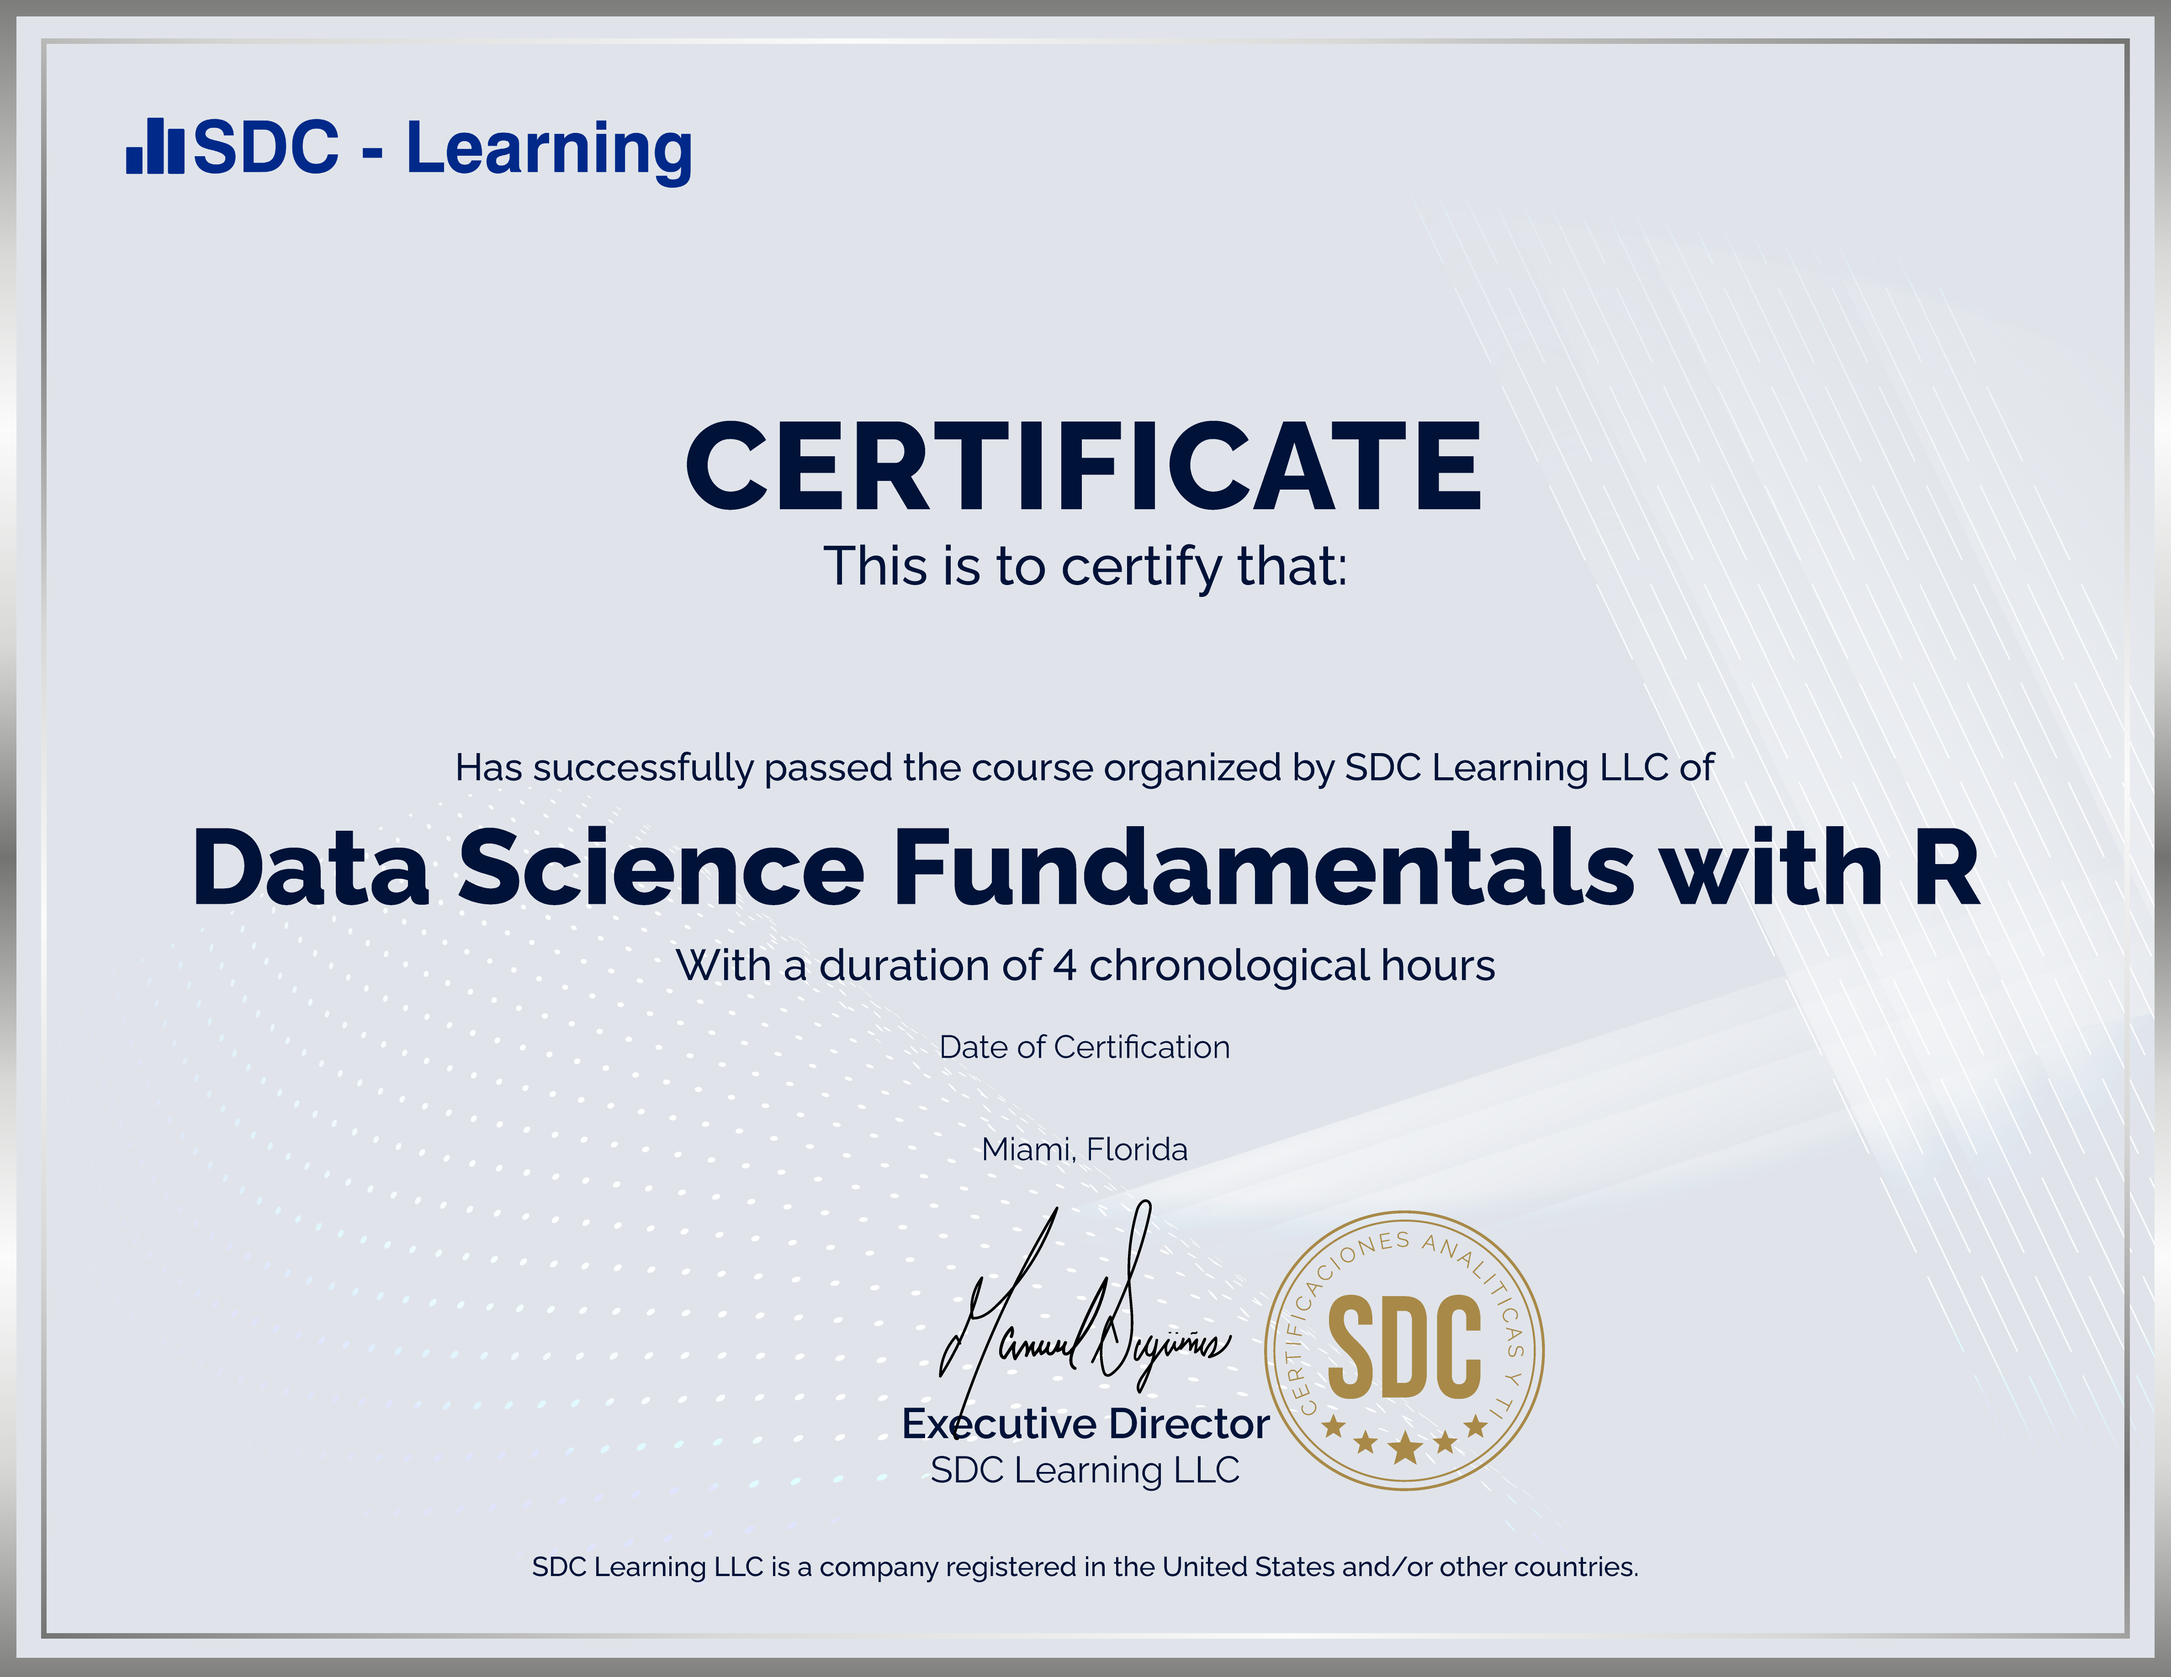
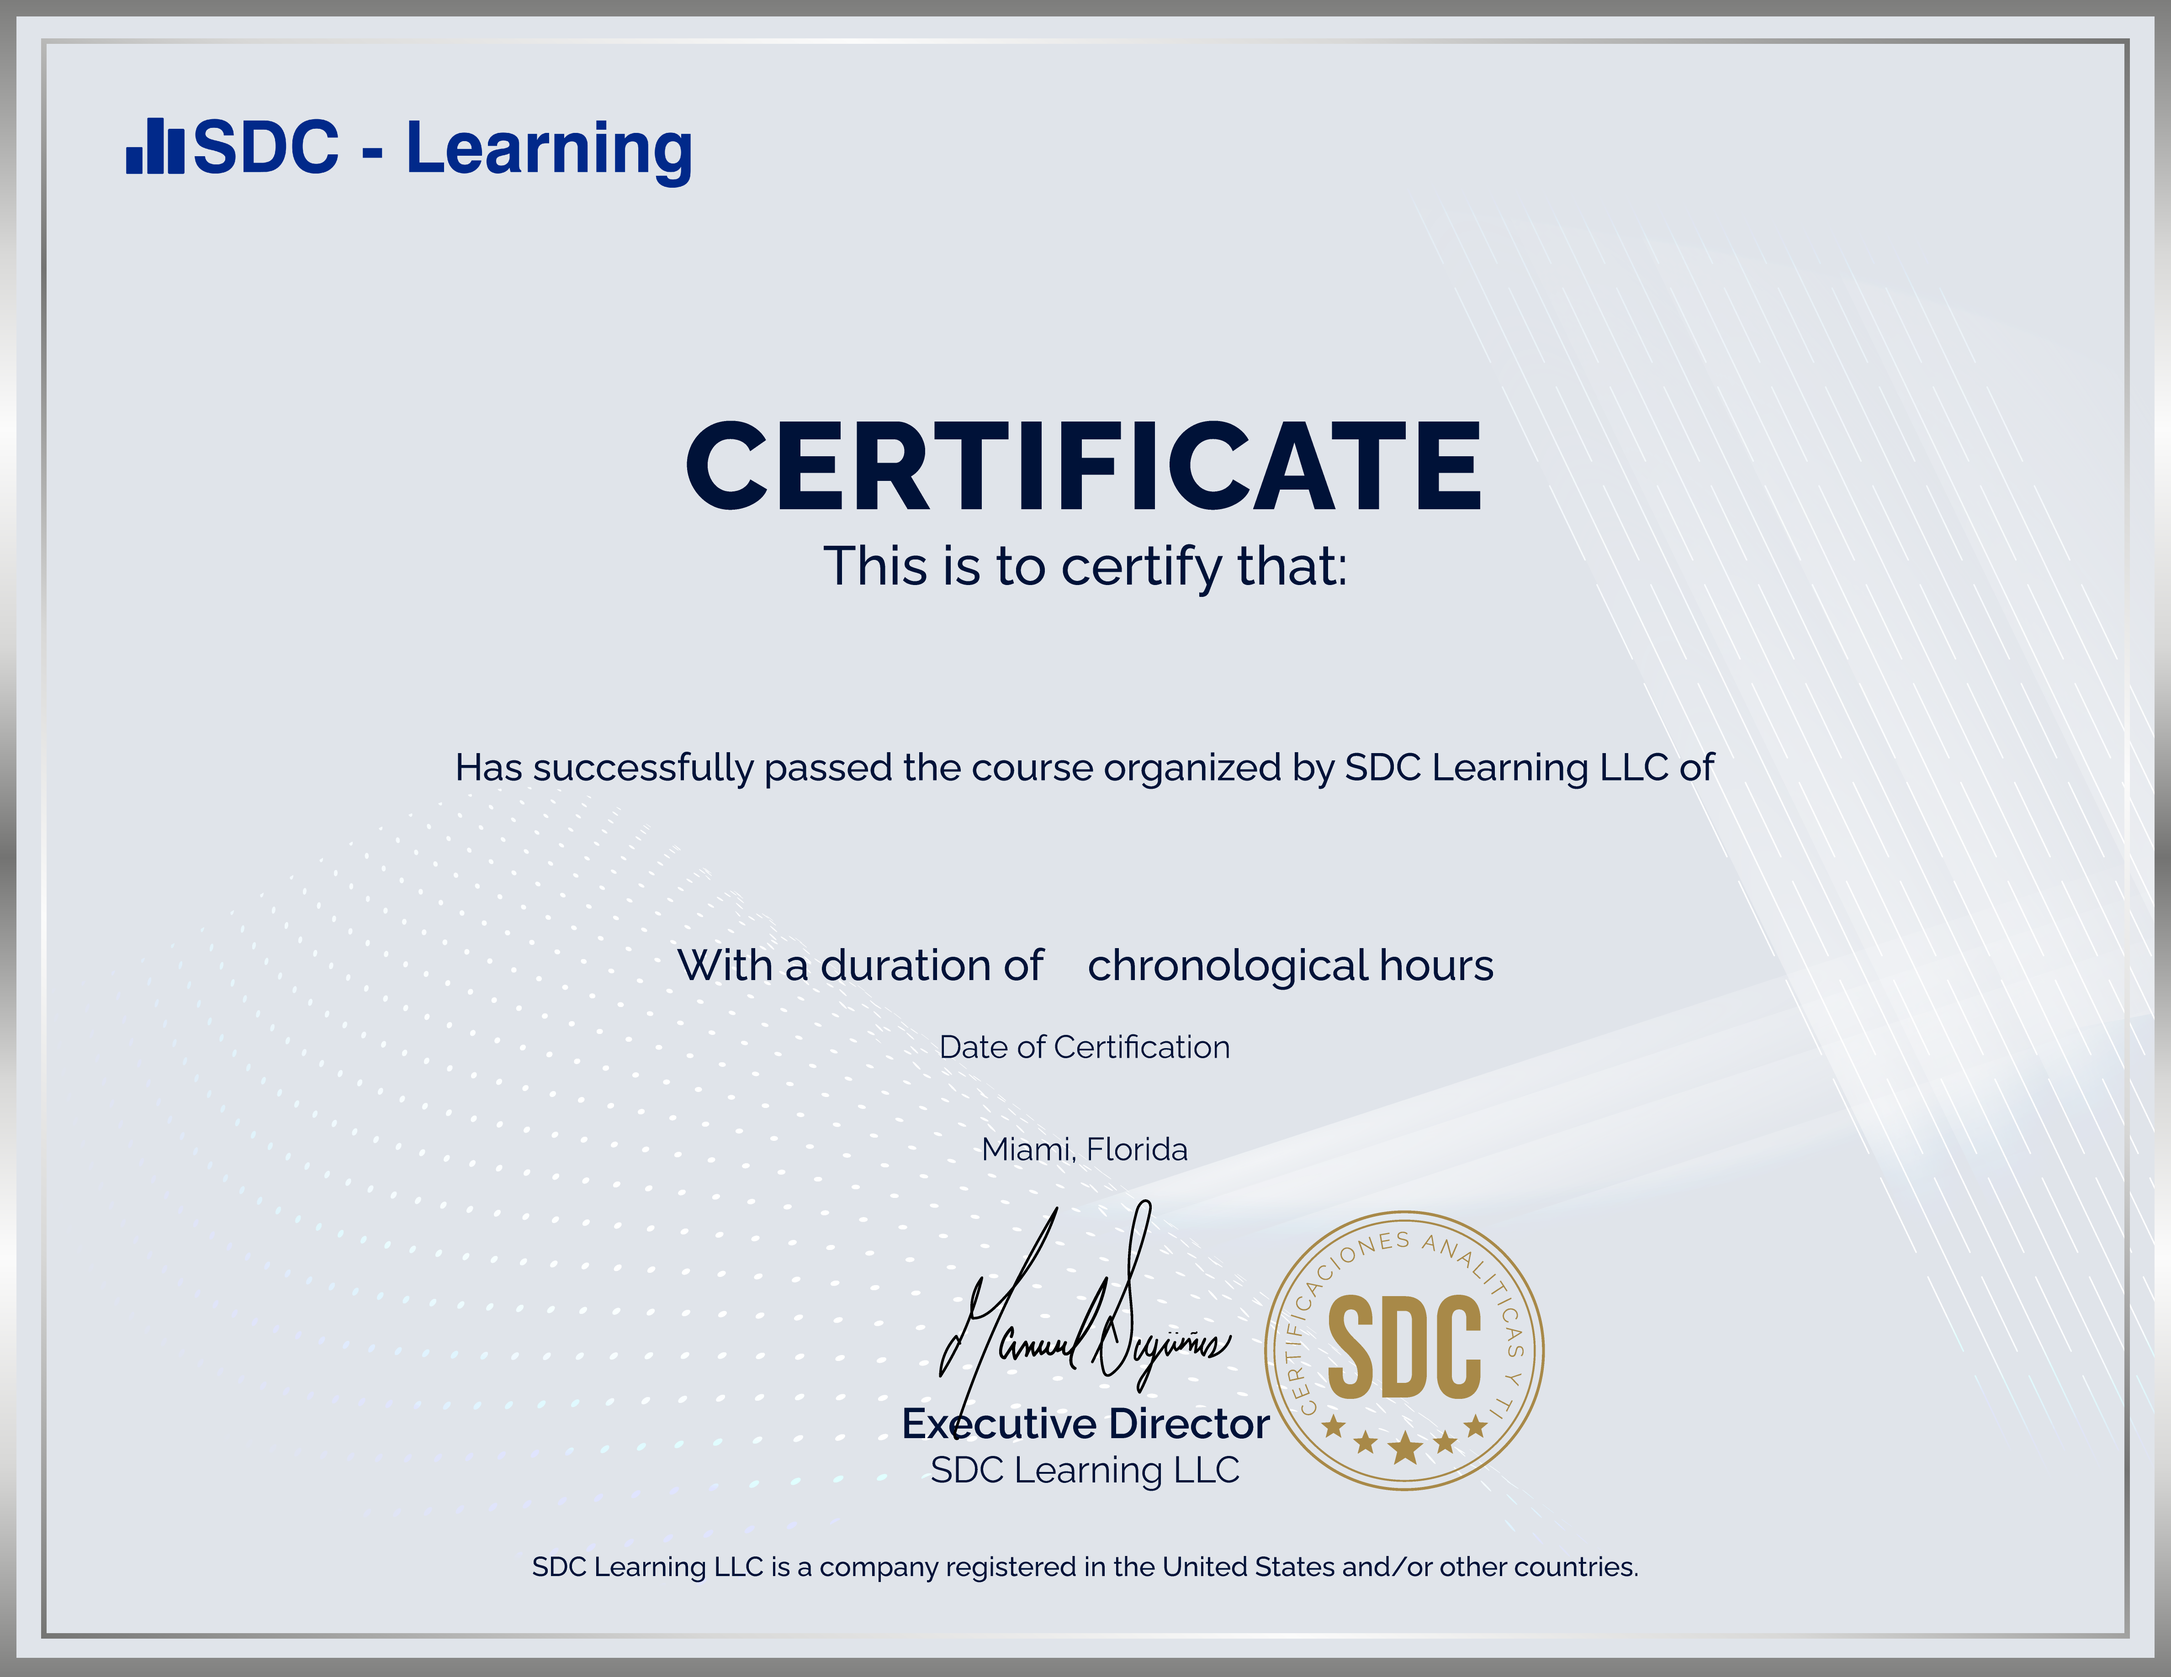
aagregando  nombre de certificado dinamico

Changed region(s): [[0.0623, 0.4967, 0.9343, 0.5899]]

diff --git a/public/certification.js b/public/certification.js
@@ -186,7 +186,7 @@ function generateCerticationEnd(image_src, student,canvas_id,qr_url,id,promedio)
 
 
 
-function generateCertication(image_src, student, canvas_id, qr_url, id, cert) {
+function generateCertication(image_src, student, canvas_id, qr_url, id, cert,text) {
 
 
 
@@ -215,11 +215,16 @@ function generateCertication(image_src, student, canvas_id, qr_url, id, cert) {
         let x = canvas1.width / 2  ;
 
             ctx.fillText(student, x, 300);
-
+ ctx.font = "bold 55px Open Sans";
+     ctx.fillStyle ="#001238";
+        ctx.fillText(text, x, 388);
+     
+     
         ctx.font = "bold 20px Open Sans";
        ctx.fillStyle ="#01233A";
             ctx.textAlign = "center";
 
+     
 
 var fechaActual = new Date();
 fechaActual.setMonth(fechaActual.getMonth());

diff --git a/resources/views/certification.blade.php b/resources/views/certification.blade.php
@@ -119,6 +119,7 @@
                 
                 ?>
 
+
                 <div class="form-layout-footer align-content-center">
                     <span>Credencial URL </span> <br>
                     <div class="row center">
@@ -128,30 +129,30 @@
                         <div class="col-lg-8">
                             <input type="text" id="texto" class="form-control" id=""
                                 value="{{ $url }}">
-                            <button class="btn btn-success btn-sm"onclick="copiarAlPortapapeles() ;"><i
+                                <button class="btn btn-success btn-sm"onclick="copiarAlPortapapeles() ;"><i
                                     class="fa fa-send mg-r-10"></i> Copiar</button>
-                        </div>
-                        <div class="col-lg-2">
-
-                        </div>
-                    </div>
-
-                    <p></p>
-                    <button class="btn btn-outline-info" id="btnpng"><i class="fa fa-send mg-r-10"></i> PNG</button>
-                    <button class="btn btn-outline-success" id="btnpdf"><i class="fa fa-send mg-r-10"></i>
-                        PDF</button>
-                    <button class="btn linkedin"
-                        onclick="linkedinCertificationGenerate('{{ $name_course }}','{{ $organizationId }}','{{ $issueYear }}','{{ $issueMonth }}','{{ $certId }}')">
-                    </button>
-
-
-                    @role('Coordinación')
-                        <form id="certification" method="post" action="" enctype="multipart/form-data"
+                                </div>
+                                <div class="col-lg-2">
+                                    
+                                </div>
+                            </div>
+                            
+                            <p></p>
+                            <button class="btn btn-outline-info" id="btnpng"><i class="fa fa-send mg-r-10"></i> PNG</button>
+                            <button class="btn btn-outline-success" id="btnpdf"><i class="fa fa-send mg-r-10"></i>
+                                PDF</button>
+                                <button class="btn linkedin"
+                                onclick="linkedinCertificationGenerate('{{ $name_course }}','{{ $organizationId }}','{{ $issueYear }}','{{ $issueMonth }}','{{ $certId }}')">
+                            </button>
+                            
+                            
+                            @role('Coordinación')
+                            <form id="certification" method="post" action="" enctype="multipart/form-data"
                             name="certification">
                             {{-- <button class="btn btn-danger"   onclick="certificationSavePhoto();" >Guardar </button>
-  <input type='hidden' id="img_source" name="photo" > --}}
+                            <input type='hidden' id="img_source" name="photo" > --}}
                         </form>
-                    @endrole
+                        @endrole
 
 
                     <script src="https://platform.linkedin.com/in.js" type="text/javascript">
@@ -183,10 +184,9 @@
         </div>
     </div>
     <p></p>
-
     <script>
         generateCertication("{{ $route_certification }}", "{{ $name }}", "canvas1", "{{ $route_qr }}",
-            "{{ $registry_detail->code_certification }}", '{{ $cert }}');
+            "{{ $registry_detail->code_certification }}", '{{ $cert }}','{{$registry_detail->registry->course->certification->description}}');
 
                 
 

diff --git a/resources/views/student/student_examtable.blade.php b/resources/views/student/student_examtable.blade.php
@@ -32,7 +32,7 @@
                                                             value="1"></span>
                                                 </div>
                                                 <input type="text" class="form-control"
-                                                    value="{{ $exams->alternative1 }}">
+                                                    value="{{ $exams->alternative1 }}" disabled>
                                             </div>
                                             <p></p>
                                         </div>
@@ -43,7 +43,7 @@
                                                             value="2"></span>
                                                 </div>
                                                 <input type="text" class="form-control"
-                                                    value="{{ $exams->alternative2 }}">
+                                                    value="{{ $exams->alternative2 }}"disabled>
                                             </div>
                                             <p></p>
                                         </div>
@@ -54,7 +54,7 @@
                                                             value="3"></span>
                                                 </div>
                                                 <input type="text" class="form-control"
-                                                    value="{{ $exams->alternative3 }}">
+                                                    value="{{ $exams->alternative3 }}"disabled>
                                             </div>
                                             <p></p>
                                         </div>
@@ -66,7 +66,7 @@
                                                             value="4"></span>
                                                 </div>
                                                 <input type="text" class="form-control"
-                                                    value="{{ $exams->alternative4 }}">
+                                                    value="{{ $exams->alternative4 }}"disabled>
                                             </div>
                                         </div>
                                         <p></p>
@@ -83,7 +83,7 @@
                                             </div>
                                         @endif
                                         @if ($loop->last)
-                                             <button id="next" class="btn btn-success btn-lg"
+                                             <button id="complete" class="btn btn-success btn-lg"
                                                     onclick="qualificationUpdate({{ $exams->id }});qualificationCertification();return false">Enviar y Finalizar</button>
                                         @endif
 

diff --git a/resources/views/student/student_exam.blade.php b/resources/views/student/student_exam.blade.php
@@ -38,7 +38,7 @@
   // Si no hay un tiempo de finalización guardado, o si estamos después del tiempo de finalización
   if (!end || end < new Date().getTime()) {
     // Establece la hora de finalización para dentro de 1 hora y la guarda en LocalStorage
-    end = new Date().getTime() + (60*60*1000); // 60 minutos * 60 segundos * 1000 milisegundos
+    end = new Date().getTime() + (30*60*1000); // 60 minutos * 60 segundos * 1000 milisegundos
     localStorage.setItem('end', end);
   }
 
@@ -53,6 +53,12 @@
       clearInterval(interval);
     //  document.getElementById('countdown').innerHTML = "EXPIRADO";
      alert("El tiempo ha expirado"); // Mostrar alerta
+     var button = document.getElementById("complete");
+    if(button) {
+        button.click();
+    } else {
+        console.log("Button not found");
+    }
       return;
     }
 

diff --git a/app/Models/Course.php b/app/Models/Course.php
@@ -20,4 +20,9 @@ class Course extends Model
 
         return $this->hasMany('App\Models\RegistryDetail', 'course_id','id');
     }
+      public function certification()
+    {
+
+        return $this->belongsTo('App\Models\Certification', 'id','course_id');
+    }
 }
